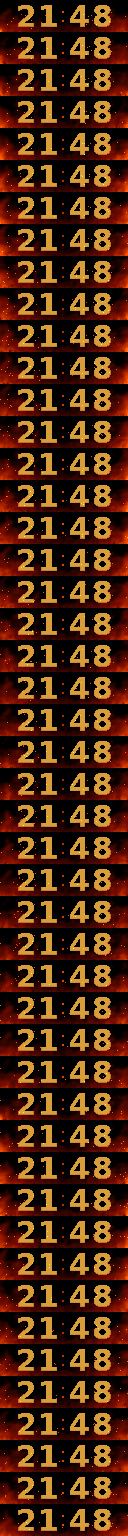
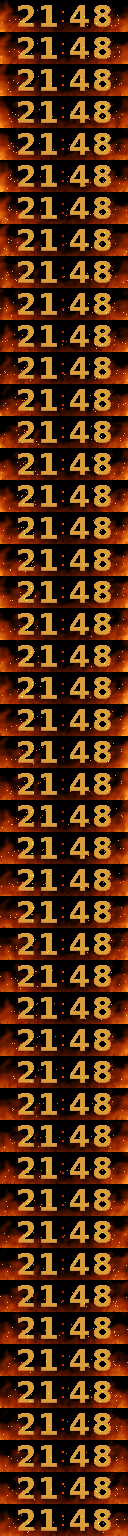
Kar yumusak salinim ve daha cok tane, kayan yildiz buyudu (ayar kalkti), Somine turuncu-sari alev
Claude-Session: https://claude.ai/code/session_01FXJygXqpMTD4wR1gjWr1uA

diff --git a/Core/Src/SpecDisplay.c b/Core/Src/SpecDisplay.c
@@ -86,14 +86,17 @@ typedef struct
 	uint8_t		Sa, Dk, Yazi, Yer, Isi, Hazir;
 } SaatDurum;
 
-/* Kar tanesi: tam piksel konum + kesir (Ac/Kd, Sc/Sk) -> ara piksel cizim */
+/* Kar tanesi: tam piksel konum + kesir (dusus Ac/Kd, yana Kx/256) -> ara piksel cizim.
+   Salinim sinus tablosundan (Fz faz, Fh faz adimi), Sa genlik (1/32 px), Dr hafif suruklenme. */
 typedef struct
 {
 	int16_t		X, Y;
-	uint16_t	Kd, Ac, Sk, Sc;					/* Dusme / salinim adim suresi ve sayaci (1/16 kare)	*/
-	int8_t		Sy, Sd;							/* Salinim konumu ve yonu			*/
+	uint16_t	Kd, Ac;							/* Dusme adim suresi ve sayaci (1/16 kare)	*/
+	uint16_t	Fz, Fh;							/* Salinim fazi ve faz adimi (1/16 kare basina)	*/
+	int16_t		Kx;								/* Yana kesir (1/256 px)				*/
 	int16_t		Son;							/* Bu satirda kaybolur (uzaklar havada soner)	*/
-	uint8_t		Sa, L;							/* Salinim genligi, isik %				*/
+	int8_t		Dr;								/* Suruklenme (1/256 px, 1/16 kare basina)	*/
+	uint8_t		Sa, L;							/* Salinim genligi (1/32 px), isik %		*/
 } SnTn;
 
 typedef struct { int32_t X, Y; int16_t Vy; uint8_t Uz, L, Iri; } YmDamla;	/* Yagmur damlasi (8.8)	*/
@@ -106,10 +109,10 @@ typedef struct { uint8_t X, Y, Life; } ShKopuk;							/* Denizde kisa omurlu kop
 #define SWV_BANDS		64				/* Renkli Dalga: ModeBands ile ayni	*/
 #define MAX_EMBERS		70
 #define SN_UZAK			70				/* Kar: en cok uzak / orta / yakin tane		*/
-#define SN_ORTA			34
+#define SN_ORTA			44
 #define SN_YAKIN		6
 #define SN_YILDIZ		16
-#define SN_IZ			14				/* Kayan yildiz kuyrugu (nokta)			*/
+#define SN_IZ			26				/* Kayan yildiz kuyrugu (nokta, ~28 px)	*/
 #define SM_KIV			32				/* Somine: kivilcim sayisi				*/
 #define SM_KIV_SON		7				/* Somine: dusen kivilcim alttaki bu kadar satirda soner	*/
 #define YM_UZAK			90				/* Yagmur: en cok uzak / yakin damla, sicrama	*/
@@ -3056,7 +3059,7 @@ static void ModeAurora(void)
    kendi tarzinda boyar (Kar: soluk golge, Somine: odun/koz). Yerlesim hazir
    duzenlerden secilir; sicaklik / nem CMD_SENSOR ile gelir (5x7 kucuk yazi).
    ========================================================================== */
-uint8_t SPEC_SnIsik = 60U, SPEC_SnYogun = 1U, SPEC_SnMeteor = 1U;
+uint8_t SPEC_SnIsik = 60U, SPEC_SnYogun = 1U;
 uint8_t SPEC_SaatYazi = 0U, SPEC_SaatYer = 0U;
 uint8_t SPEC_SmBoy = 1U;
 uint8_t SPEC_YmSiddet = 1U, SPEC_YmRuzgar = 1U;
@@ -3172,8 +3175,10 @@ static void SaatIsiCiz(const SaatDurum *S, uint8_t R, uint8_t G, uint8_t B)
    cizerek inen kayan yildiz. Uc katman, derinlik hiz ve parlaklik farkindan:
      uzak : tek sonuk piksel, cok yavas, dumduz; havada rastgele yukseklikte
             sonup kaybolur (hepsi ayni cizgiye "dusmez"), saatin arkasinda
-     orta : 3x3 yumusak tane, orta hiz, hafif salinim
-     yakin: 3x3 yumusak tane, hizli, genis salinim, saatin onunde
+     orta : 3x3 yumusak tane, orta hiz, dar (~1 px) salinim
+     yakin: 3x3 yumusak tane, hizli, saatin onunde; salinimi uzun ve yumusak
+            (sinus, donuslerde yavaslar; zikzak yok), genisligi taneye gore
+            0.4-2 px, hafif yana suruklenme
    Taneler donmez. Konum kesirli tutulur (dusus Ac/Kd, salinim Sc/Sk) ve tane
    ara piksel ile cizilir: isik komsu 2x2 piksele, parlaklik (karesi) korunacak
    sekilde bolusturulur; yavas tane bir satirdan otekine akar, adim adim
@@ -3210,18 +3215,28 @@ static void SnNokta(int x, int y, const SnAg *g, uint32_t v)
 	if((k = (v * g->D) >> 8) != 0U) Add(x + 1, y + 1, (uint8_t)k, (uint8_t)k, (uint8_t)k);
 }
 
+/* Sinus tablosu: 64 adim, -256..256 */
+static const int16_t SnSin[65] =
+{
+	   0,  25,  50,  74,  98, 121, 142, 162, 181, 198, 213, 226, 237, 245, 251, 255,
+	 256, 255, 251, 245, 237, 226, 213, 198, 181, 162, 142, 121,  98,  74,  50,  25,
+	   0, -25, -50, -74, -98,-121,-142,-162,-181,-198,-213,-226,-237,-245,-251,-255,
+	-256,-255,-251,-245,-237,-226,-213,-198,-181,-162,-142,-121, -98, -74, -50, -25, 0
+};
+
+static int32_t SnSinus(uint16_t Fz)								/* Ara degerli: -256..256 */
+{
+	const uint32_t i = Fz >> 10, k = Fz & 1023U;
+	return SnSin[i] + (((int32_t)(SnSin[i + 1] - SnSin[i]) * (int32_t)k) >> 10);
+}
+
 /* Tanenin cizim konumu: tam kisim (X0, Y0) + ara piksel agirliklari */
 static SnAg SnKonum(const SnTn *t, int *X0, int *Y0)
 {
-	uint32_t Fx = 0, Fy = (uint32_t)t->Ac * 256U / t->Kd;
-	*X0 = t->X + t->Sy; *Y0 = t->Y;
-	if(t->Sa)													/* Salinim: siradaki adima dogru kayar */
-	{
-		const uint32_t k = (uint32_t)t->Sc * 256U / t->Sk;
-		if(t->Sd > 0) Fx = k;
-		else          { (*X0)--; Fx = 256U - k; }
-	}
-	return SnAgirlik(Fx, Fy);
+	const int32_t Yan = (int32_t)t->Kx + (int32_t)t->Sa * SnSinus(t->Fz) / 32;	/* 1/256 px */
+	*X0 = t->X + (int)(Yan >> 8);									/* Aritmetik kaydirma: asagi yuvarlar */
+	*Y0 = t->Y;
+	return SnAgirlik((uint32_t)(Yan & 255), (uint32_t)t->Ac * 256U / t->Kd);
 }
 
 static void SnDesen(const SnTn *t, const char *const *Sat, int n, uint32_t L)
@@ -3238,18 +3253,27 @@ static void SnDesen(const SnTn *t, const char *const *Sat, int n, uint32_t L)
 		}
 }
 
-/* Tane hiz (px/s) ve salinimla yeniden dogar. Basta = ekranin her yerinde.
-   Son: uzak tanenin sonup kaybolacagi satir (digerlerinde ekran alti). */
-static void SnDog(SnTn *t, float Hiz, uint8_t Sa, uint8_t L, uint8_t Basta, uint8_t Uzak)
+/* Tane hiz (px/s) ve salinim turuyle yeniden dogar. Tur: 0 uzak (duz), 1 orta
+   (dar, ~1 px), 2 yakin (genislik ve sure taneye gore; bazisi neredeyse duz).
+   Basta = ekranin her yerinde. Son: uzak tanenin sonup kaybolacagi satir. */
+static void SnDog(SnTn *t, float Hiz, uint8_t Tur, uint8_t L, uint8_t Basta)
 {
+	float Sure = 1.0f;											/* Salinim turu (s) */
 	t->X  = (int16_t)(Rand() % W);
 	t->Kd = (uint16_t)(16.0f * CFG_FPS / Hiz);
 	t->Ac = (uint16_t)(Rand() % t->Kd);
-	t->Sa = Sa; t->Sy = 0; t->Sd = (Rand() & 1U) ? 1 : -1;
-	t->Sk = (uint16_t)(16U * (14U + Rand() % 16U));					/* Salinim adimi: 14-29 kare	*/
-	t->Sc = (uint16_t)(Rand() % t->Sk);
+	t->Kx = 0;
+	t->Fz = (uint16_t)Rand();
 	t->L  = L;
-	t->Son = Uzak ? (int16_t)(H / 3U + Rand() % (H * 2U / 3U)) : (int16_t)(H + 3U);
+	switch(Tur)
+	{
+	case 1:  t->Sa = 32U;                                     Sure = 0.6f + 0.6f * RandF(); t->Dr = 0; break;
+	case 2:  t->Sa = (uint8_t)(12U + Rand() % 53U);           Sure = 2.5f + 2.0f * RandF();	/* 0.4-2 px */
+	         t->Dr = (int8_t)((int)(Rand() % 5U) - 2);                                         break;	/* +-1 px/s'ye kadar */
+	default: t->Sa = 0;                                                                     t->Dr = 0; break;
+	}
+	t->Fh = t->Sa ? (uint16_t)(65536.0f / (Sure * CFG_FPS * 16.0f)) : 0U;
+	t->Son = (Tur == 0U) ? (int16_t)(H / 3U + Rand() % (H * 2U / 3U)) : (int16_t)(H + 3U);
 	t->Y  = Basta ? (int16_t)(Rand() % (uint32_t)t->Son) : (int16_t)(-1 - (int)(Rand() % 6U));
 }
 
@@ -3258,16 +3282,12 @@ static void SnIn(SnTn *t, uint16_t Adim)
 {
 	t->Ac = (uint16_t)(t->Ac + Adim);
 	while(t->Ac >= t->Kd) { t->Ac = (uint16_t)(t->Ac - t->Kd); t->Y++; }
-	if(t->Sa)
-	{
-		t->Sc = (uint16_t)(t->Sc + Adim);
-		while(t->Sc >= t->Sk)
-		{
-			t->Sc = (uint16_t)(t->Sc - t->Sk);
-			t->Sy = (int8_t)(t->Sy + t->Sd);
-			if(t->Sy >= (int8_t)t->Sa || t->Sy <= -(int8_t)t->Sa) t->Sd = (int8_t)-t->Sd;
-		}
-	}
+	t->Fz = (uint16_t)(t->Fz + (uint32_t)t->Fh * Adim);
+	t->Kx = (int16_t)(t->Kx + t->Dr * (int)Adim / 16);
+	while(t->Kx >= 256)  { t->Kx = (int16_t)(t->Kx - 256); t->X++; }
+	while(t->Kx <= -256) { t->Kx = (int16_t)(t->Kx + 256); t->X--; }
+	if(t->X < -2)          t->X = (int16_t)(W + 1U);			/* Suruklenen tane karsidan girer */
+	else if(t->X > (int)W + 1) t->X = -2;
 }
 
 /* Kayan yildiz: ust kosenin birinden girer, yay cizerek (yercekimi gibi) karsi
@@ -3278,7 +3298,6 @@ static void SnMeteor(float Gdt)
 
 	if(!U.Sn.MOn)
 	{
-		if(SPEC_SnMeteor == 0U) return;
 		U.Sn.MSonra -= Gdt;
 		if(U.Sn.MSonra > 0.0f) return;
 		{
@@ -3300,13 +3319,29 @@ static void SnMeteor(float Gdt)
 	if(U.Sn.Mx < -(float)SN_IZ || U.Sn.Mx > (float)(W + SN_IZ) || U.Sn.My > (float)H + 2.0f)
 	{
 		U.Sn.MOn = 0;
-		U.Sn.MSonra = (SPEC_SnMeteor == 2U) ? 6.0f + 6.0f * RandF() : 20.0f + 20.0f * RandF();
+		U.Sn.MSonra = 6.0f + 6.0f * RandF();
 		return;
 	}
-	for(i = (int)U.Sn.MIz - 1; i >= 0; i--)
+	for(i = (int)U.Sn.MIz - 1; i > 0; i--)							/* Kuyruk: 1 px, basa yakin parlak, ucta soner */
 	{
-		const uint8_t v = (uint8_t)(150U - (uint32_t)i * 150U / SN_IZ);
-		Add(U.Sn.Ix[i], U.Sn.Iy[i], v, (uint8_t)((v * 240U) >> 8), (uint8_t)((v * 210U) >> 8));
+		const uint32_t k = (uint32_t)(SN_IZ - i), v = 130U * k * k / ((uint32_t)SN_IZ * SN_IZ);
+		Add(U.Sn.Ix[i], U.Sn.Iy[i], (uint8_t)v, (uint8_t)((v * 240U) >> 8), (uint8_t)((v * 210U) >> 8));
+	}
+	{																/* Bas: 3x3 yumusak, ara piksel */
+		const float fx = U.Sn.Mx - 1.0f, fy = U.Sn.My - 1.0f;		/* Desen merkezi Mx, My */
+		const int   X0 = (int)floorf(fx), Y0 = (int)floorf(fy);
+		const SnAg  g  = SnAgirlik((uint32_t)((fx - (float)X0) * 256.0f), (uint32_t)((fy - (float)Y0) * 256.0f));
+		int x, y;
+		for(y = 0; y < 3; y++)
+			for(x = 0; x < 3; x++)
+			{
+				const char c = SnYumusak[y][x];
+				const uint32_t L = (c == '#') ? 170U : (c == '+') ? 70U : 36U;
+				const uint32_t a[4] = { (L * g.A) >> 8, (L * g.B) >> 8, (L * g.C) >> 8, (L * g.D) >> 8 };
+				int k;
+				for(k = 0; k < 4; k++)
+					if(a[k]) Add(X0 + x + (k & 1), Y0 + y + (k >> 1), (uint8_t)a[k], (uint8_t)((a[k] * 240U) >> 8), (uint8_t)((a[k] * 210U) >> 8));
+			}
 	}
 }
 
@@ -3337,7 +3372,7 @@ static void SaatCizRgb(const SaatDurum *S)
 
 static void ModeSnow(void)
 {
-	static const uint8_t NUz[3] = { 30, 50, 70 }, NOr[3] = { 14, 24, 34 }, NYa[3] = { 3, 5, 6 };
+	static const uint8_t NUz[3] = { 30, 50, 70 }, NOr[3] = { 18, 32, 44 }, NYa[3] = { 3, 5, 6 };
 	const float    Gdt  = 1.0f / CFG_FPS;					/* Yildiz, kayan yildiz: gercek zaman	*/
 	const uint16_t Adim = (uint16_t)(SpdDT * CFG_FPS * 16.0f + 0.5f);	/* Kar: Hiz ayari ile		*/
 	const uint32_t Tepe = SN_TEPE * SPEC_SnIsik / 100U;
@@ -3347,9 +3382,9 @@ static void ModeSnow(void)
 
 	if(!U.Sn.Ready)
 	{
-		for(i = 0; i < SN_UZAK; i++)  SnDog(&U.Sn.Uz[i], 2.0f + 1.2f * RandF(), 0, (uint8_t)(30U + Rand() % 16U), 1, 1);
-		for(i = 0; i < SN_ORTA; i++)  SnDog(&U.Sn.Or[i], 5.0f + 2.0f * RandF(), 1, 60, 1, 0);
-		for(i = 0; i < SN_YAKIN; i++) SnDog(&U.Sn.Ya[i], 14.0f + 6.0f * RandF(), 3, 100, 1, 0);
+		for(i = 0; i < SN_UZAK; i++)  SnDog(&U.Sn.Uz[i], 2.0f + 1.2f * RandF(), 0, (uint8_t)(30U + Rand() % 16U), 1);
+		for(i = 0; i < SN_ORTA; i++)  SnDog(&U.Sn.Or[i], 5.0f + 2.0f * RandF(), 1, 60, 1);
+		for(i = 0; i < SN_YAKIN; i++) SnDog(&U.Sn.Ya[i], 14.0f + 6.0f * RandF(), 2, 100, 1);
 		for(i = 0; i < SN_YILDIZ; i++)
 		{
 			U.Sn.Sx[i] = (uint8_t)(Rand() % W);
@@ -3382,7 +3417,7 @@ static void ModeSnow(void)
 		SnTn *t = &U.Sn.Uz[i];
 		uint32_t v = Tepe * t->L / 100U;
 		SnIn(t, Adim);
-		if(t->Y >= t->Son) { SnDog(t, 2.0f + 1.2f * RandF(), 0, (uint8_t)(30U + Rand() % 16U), 0, 1); continue; }
+		if(t->Y >= t->Son) { SnDog(t, 2.0f + 1.2f * RandF(), 0, (uint8_t)(30U + Rand() % 16U), 0); continue; }
 		if(t->Son - t->Y < 6) v = v * (uint32_t)(t->Son - t->Y) / 6U;
 		{
 			int X0, Y0;
@@ -3398,7 +3433,7 @@ static void ModeSnow(void)
 	{
 		SnTn *t = &U.Sn.Or[i];
 		SnIn(t, Adim);
-		if(t->Y >= t->Son) SnDog(t, 5.0f + 2.0f * RandF(), 1, 60, 0, 0);
+		if(t->Y >= t->Son) SnDog(t, 5.0f + 2.0f * RandF(), 1, 60, 0);
 		SnDesen(t, SnYumusak, 3, Tepe * t->L / 100U);
 	}
 
@@ -3407,7 +3442,7 @@ static void ModeSnow(void)
 	{
 		SnTn *t = &U.Sn.Ya[i];
 		SnIn(t, Adim);
-		if(t->Y >= t->Son) SnDog(t, 14.0f + 6.0f * RandF(), 3, 100, 0, 0);
+		if(t->Y >= t->Son) SnDog(t, 14.0f + 6.0f * RandF(), 2, 100, 0);
 		SnDesen(t, SnYumusak, 3, Tepe);
 	}
 }
@@ -3452,7 +3487,7 @@ static void ModeHearth(void)
 		for(x = 0; x < (int)W; x++) U.Sm.Yk[x] = 0.5f + 0.5f * RandF();
 		U.Sm.Harl = U.Sm.HarlH = 1.0f;
 		U.Sm.HarlSonra = 4.0f;
-		SPEC_SetFirePalette(6U, 0x7A0C00UL, 0xFF5000UL, 0xFFB030UL);	/* Beyazsiz gercek alev */
+		SPEC_SetFirePalette(6U, 0xA02800UL, 0xFF8A18UL, 0xFFD060UL);	/* Gercek alev: kirmizi yalniz serin uclarda, govde turuncu, sicak yer altin sari (beyaz yok) */
 		U.Sm.Ready = 1;
 	}
 	U.Sm.Kare++;

diff --git a/Core/Src/Settings.c b/Core/Src/Settings.c
@@ -144,7 +144,6 @@ static void ApplyOrtam(uint8_t Mode, int32_t Value)
 	(void)Mode; (void)Value;
 	SPEC_SnIsik   = (uint8_t)SET_Global(SET_ID_SN_ISIK);
 	SPEC_SnYogun  = (uint8_t)SET_Global(SET_ID_SN_YOGUN);
-	SPEC_SnMeteor = (uint8_t)SET_Global(SET_ID_SN_METEOR);
 	SPEC_SaatYazi = (uint8_t)SET_Global(SET_ID_SAAT_YAZI);
 	SPEC_SaatYer  = (uint8_t)SET_Global(SET_ID_SAAT_YER);
 	SPEC_SmBoy    = (uint8_t)SET_Global(SET_ID_SM_BOY);
@@ -256,8 +255,6 @@ static const SET_Param Table[] =
 	  "Kar I\305\237\304\261\304\237\304\261", "Kar", "%", ApplyOrtam },
 	{ SET_ID_SN_YOGUN,		SET_TYPE_ENUM,	SET_FLAG_PER_MODE, SN_MASK, 0, 2, 1, 1,
 	  "Yo\304\237unluk", "Kar", "Az|Orta|\303\207ok", ApplyOrtam },
-	{ SET_ID_SN_METEOR,		SET_TYPE_ENUM,	SET_FLAG_PER_MODE, SN_MASK, 0, 2, 1, 1,
-	  "Kayan Y\304\261ld\304\261z", "G\303\266k", "Kapal\304\261|Seyrek|S\304\261k", ApplyOrtam },
 	{ SET_ID_SM_BOY,		SET_TYPE_ENUM,	SET_FLAG_PER_MODE, SM_MASK, 0, 2, 1, 1,
 	  "Alev Boyu", "Alev", "Al\303\247ak|Orta|Y\303\274ksek", ApplyOrtam },
 	{ SET_ID_YM_SIDDET,		SET_TYPE_ENUM,	SET_FLAG_PER_MODE, YM_MASK, 0, 2, 1, 1,

diff --git a/Core/Inc/SpecDisplay.h b/Core/Inc/SpecDisplay.h
@@ -66,7 +66,7 @@ extern SPEC_ClsCfg SPEC_Cls;
    SPEC_React: 0 sakin (sadece guclu bas), 1 normal, 2 hareketli (her vurus)
    SPEC_ShowNo: mod degisince sol ustte gosterilen numara (gorunum no)	*/
 extern uint8_t SPEC_Speed, SPEC_React, SPEC_ShowNo;
-extern uint8_t SPEC_SnIsik, SPEC_SnYogun, SPEC_SnMeteor;	/* Kar: parlaklik %, 0..2, 0..2	*/
+extern uint8_t SPEC_SnIsik, SPEC_SnYogun;				/* Kar: parlaklik %, yogunluk 0..2	*/
 extern uint8_t SPEC_SaatYazi, SPEC_SaatYer;			/* Saatli modlar: font, yerlesim	*/
 extern uint8_t SPEC_SmBoy;							/* Somine: alev boyu 0..2				*/
 extern uint8_t SPEC_YmSiddet, SPEC_YmRuzgar;		/* Yagmur: siddet 0..2, ruzgar 0..2		*/

diff --git a/Core/Inc/Settings.h b/Core/Inc/Settings.h
@@ -70,7 +70,6 @@
 #define SET_ID_PAL		0x0209U	/* Katmanli Dag / Orgu Serit: renk ailesi (8)	*/
 #define SET_ID_SN_ISIK		0x0301U	/* Kar: tane parlakligi %			*/
 #define SET_ID_SN_YOGUN		0x0302U	/* Kar: tane sayisi (Az/Orta/Cok)	*/
-#define SET_ID_SN_METEOR	0x0303U	/* Kar: kayan yildiz sikligi		*/
 #define SET_ID_SAAT_YAZI	0x0304U	/* Saatli modlar: saat fontu		*/
 #define SET_ID_SAAT_YER		0x0305U	/* Saatli modlar: hazir yerlesim	*/
 #define SET_ID_SM_BOY		0x0306U	/* Somine: alev boyu				*/

diff --git a/NOTLAR.md b/NOTLAR.md
@@ -124,6 +124,10 @@ Yazmadan önce cihazdaki dosyayı stage edip diff al (CubeIDE / başka oturum de
   1) Ortam (Kind 1) modlarında pompa kapalı. 2) Müzikli modlarda parlaklık %20 altındaysa pompa giderek azalsın,
   en düşükte kapansın. Yan not: düşük parlaklıkta alt bitplane'ler 1 tikte sabit kaldığı için sönük tonlar
   orantılı kısılmıyor (HUB75_DMA.c OnTicks), ileride bakılabilir.
+- 13 Kasım gece (5. tur, kartta denenmedi): Kar: yakın taneler zikzak gibiydi (üçgen salınım, sert dönüş) ->
+  sinüs tablosu (SnSin 64, ara değerli), genlik 0.4-2 px, 2.5-4.5 s, hafif sürüklenme; orta ~1 px aynı. Orta tane
+  {18,32,44}. Kayan yıldız: baş 3x3 yumuşak (ara piksel), kuyruk ~28 px; "Kayan Yıldız" ayarı KALDIRILDI (0x0303 boş),
+  hep 6-12 s'de bir. Şömine paleti: A02800 / FF8A18 / FFD060 (kırmızı çoktu, Fatih: gerçek alev gibi).
 - 13 Kasım gece (4. tur, kartta denenmedi): Yağmur su birikintisi KALDIRILDI (Fatih: düz renk + beyaz şerit, suya
   benzemedi; tekrar önerme). Sahil: kum üstündeki su Dz2'den başlayıp uca doğru sığ renge açılır (büyük dalgada
   bariz renk sınırı vardı); Gün batımı kaldırıldı, ayar "Işık: Gece|Gündüz" (0x030B SH_ISIK). Şömine: Kıvılcım
